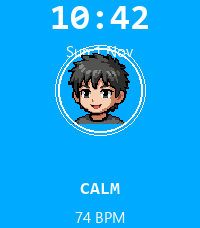
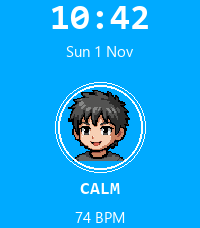
Center the character between the clock and mood captions.
Stops the face from sitting too high with a large empty gap above CALM/BPM.

Changed region(s): [[0.27, 0.1842, 0.75, 0.7675]]

diff --git a/src/c/face.c b/src/c/face.c
@@ -81,10 +81,10 @@ static void update_proc(Layer *layer, GContext *ctx) {
   graphics_fill_rect(ctx, bounds, 0, GCornerNone);
 
   // Caption band at the bottom (mood + BPM).
-  const int caption_h = 40;
+  const int caption_h = 42;
   const int time_bottom = cfg->show_date ? 64 : 48;
 
-  // Face sits between the time band and the captions.
+  // Vertically center the face in the band between time and captions.
   GBitmap *face = s_faces[mood->level];
   if (face) {
     GSize sz = gbitmap_get_bounds(face).size;
@@ -94,13 +94,14 @@ static void update_proc(Layer *layer, GContext *ctx) {
       bounce = ((s_pulse + (int)mood->level) % 8 < 4) ? amp : 0;
     }
 
-    int face_y = time_bottom + 2 - bounce;
-    int max_y = bounds.size.h - caption_h - sz.h;
-    if (face_y > max_y) {
-      face_y = max_y;
+    const int band_top = time_bottom;
+    const int band_bot = bounds.size.h - caption_h;
+    int face_y = band_top + (band_bot - band_top - sz.h) / 2 - bounce;
+    if (face_y < band_top) {
+      face_y = band_top;
     }
-    if (face_y < time_bottom) {
-      face_y = time_bottom;
+    if (face_y + sz.h > band_bot) {
+      face_y = band_bot - sz.h;
     }
 
     GRect dest = GRect((bounds.size.w - sz.w) / 2, face_y, sz.w, sz.h);

diff --git a/tools/generate_store_screenshots.py b/tools/generate_store_screenshots.py
@@ -168,8 +168,16 @@ def render(w: int, h: int, color: bool, scene: dict) -> Image.Image:
     face_size = 72 if w >= 200 else 56
     face = load_face(scene["character"], scene["face"], color, face_size)
     face_x = (w - face_size) // 2
-    # Keep the sprite below time (and date when shown)
-    face_y = (52 if w >= 200 else 44) if scene.get("show_date") else (38 if w >= 200 else 30)
+    # Match watchface.c: center sprite between time band and caption band
+    time_bottom = 64 if scene.get("show_date") else 48
+    caption_h = 42
+    band_top = time_bottom
+    band_bot = h - caption_h
+    face_y = band_top + (band_bot - band_top - face_size) // 2
+    if face_y < band_top:
+        face_y = band_top
+    if face_y + face_size > band_bot:
+        face_y = band_bot - face_size
     img.paste(face, (face_x, face_y), face)
 
     if color:
